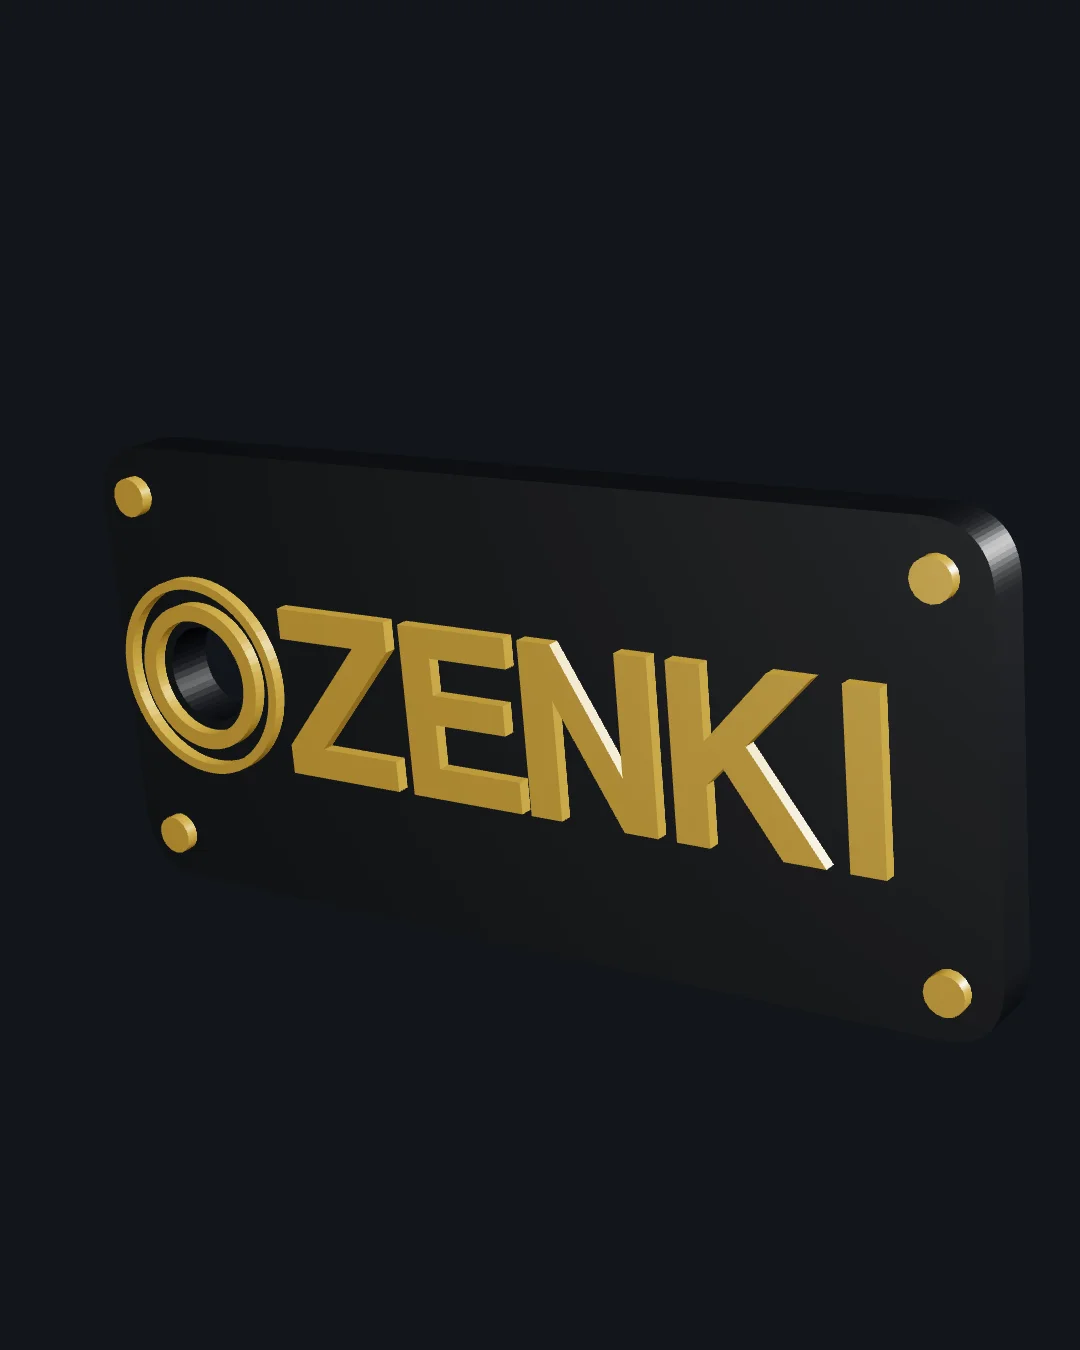
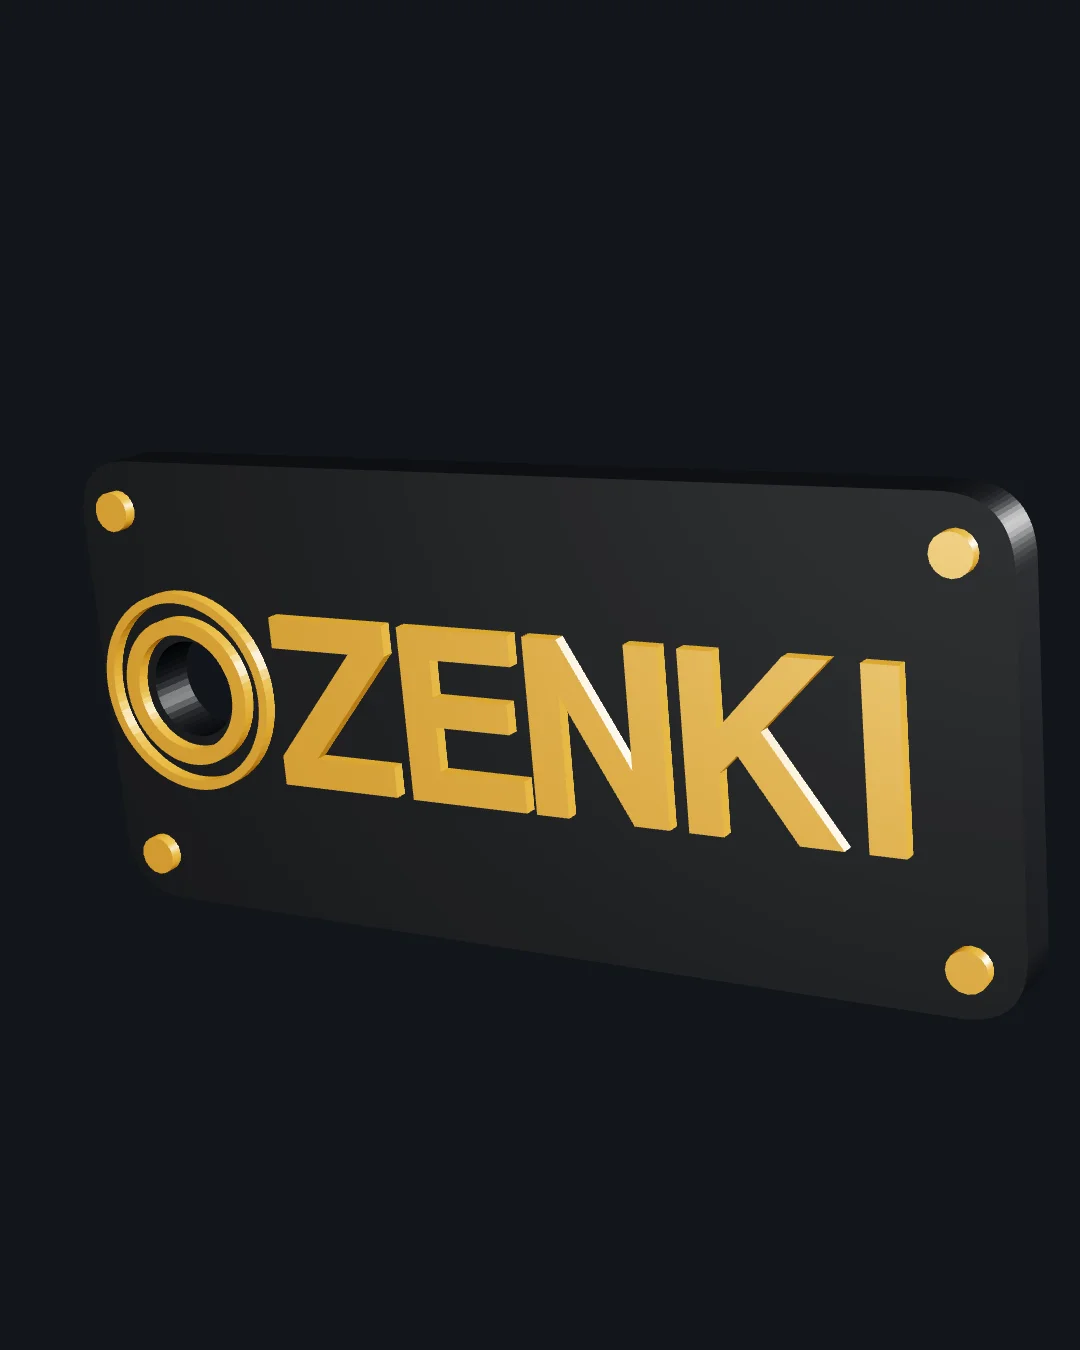
feat: brighter amber and a matched sky-cyan
Amber base F5A623, light FFC35C. Cyan moves to 38C8F5 to sit on the blue-lit photography. Applied to tokens, 3D materials, favicon, key tag combos and the design doc. Red becomes a danger token for errors only.

Changed region(s): [[0.0917, 0.3422, 0.9778, 0.6533], [0.8556, 0.6844, 0.9167, 0.7778], [0.0917, 0.3422, 0.1528, 0.4044]]

diff --git a/src/app/globals.css b/src/app/globals.css
@@ -46,18 +46,20 @@
   --color-text-tertiary: #5F6A76;
 
   /* Accent: amber is primary. Gradients always run light to base, never base to dark. */
-  --color-accent-primary: #C49B3C;
-  --color-accent-primary-light: #D9AF52;
-  --color-accent-warm: #22D3EE; /* historical name: holds cyan, restrained secondary (icons, rim accents, hero hologram). Never nav or CTA. */
-  --color-accent-secondary: #D9AF52;
-  --color-accent-glow: rgba(196, 155, 60, 0.08);
-  --color-accent-border: rgba(196, 155, 60, 0.25);
-  --color-accent-hover: rgba(196, 155, 60, 0.12);
+  --color-accent-primary: #F5A623;
+  --color-accent-primary-light: #FFC35C;
+  --color-accent-warm: #38C8F5; /* historical name: holds cyan, restrained secondary (icons, rim accents, hero hologram). Never nav or CTA. */
+  --color-accent-secondary: #FFC35C;
+  --color-accent-glow: rgba(245, 166, 35, 0.08);
+  --color-accent-border: rgba(245, 166, 35, 0.25);
+  --color-accent-hover: rgba(245, 166, 35, 0.12);
 
   /* CTA (Call to Action) */
-  --color-cta: #EF4444;
-  --color-cta-hover: #F87171;
-  --color-cta-glow: rgba(239, 68, 68, 0.5);
+  /* Primary buttons use the amber accent. Red is reserved for errors. */
+  --color-cta: var(--color-accent-primary);
+  --color-cta-hover: var(--color-accent-primary-light);
+  --color-cta-glow: rgba(245, 166, 35, 0.35);
+  --color-danger: #EF4444;
 
   /* Borders & Surfaces */
   --color-border: #293038;
@@ -71,18 +73,18 @@
   --card-foreground: #F3F5F7;
   --popover: #12151A;
   --popover-foreground: #F3F5F7;
-  --primary: #C49B3C;
+  --primary: #F5A623;
   --primary-foreground: #0B0D10;
   --secondary: #181C22;
   --secondary-foreground: #F3F5F7;
   --muted: #181C22;
   --muted-foreground: #8A93A0;
-  --accent: #C49B3C;
+  --accent: #F5A623;
   --accent-foreground: #0B0D10;
   --destructive: #EF4444;
   --border: #293038;
   --input: #293038;
-  --ring: #C49B3C;
+  --ring: #F5A623;
 }
 
 .dark {
@@ -92,18 +94,18 @@
   --card-foreground: #F3F5F7;
   --popover: #12151A;
   --popover-foreground: #F3F5F7;
-  --primary: #C49B3C;
+  --primary: #F5A623;
   --primary-foreground: #0B0D10;
   --secondary: #181C22;
   --secondary-foreground: #F3F5F7;
   --muted: #181C22;
   --muted-foreground: #8A93A0;
-  --accent: #C49B3C;
+  --accent: #F5A623;
   --accent-foreground: #0B0D10;
   --destructive: #EF4444;
   --border: #293038;
   --input: #293038;
-  --ring: #C49B3C;
+  --ring: #F5A623;
 }
 
 * {
@@ -207,7 +209,7 @@ html {
 /* ── Selection ── */
 
 ::selection {
-  background: rgba(196, 155, 60, 0.25);
+  background: rgba(245, 166, 35, 0.25);
   color: #fff;
 }
 

diff --git a/src/components/hero3d/Phone.tsx b/src/components/hero3d/Phone.tsx
@@ -53,7 +53,7 @@ export function Phone({
     ctx.fillRect(0, 0, W, H);
 
     // Scanlines
-    ctx.strokeStyle = "rgba(34,211,238,0.04)";
+    ctx.strokeStyle = "rgba(56, 200, 245,0.04)";
     for (let y = 0; y < H; y += 3) {
       ctx.beginPath();
       ctx.moveTo(0, y);
@@ -70,15 +70,15 @@ export function Phone({
     const y3d = H * 0.36;
 
     ctx.font = `bold ${fontSize}px 'Inter','Segoe UI','Helvetica Neue',Arial,sans-serif`;
-    ctx.shadowColor = "#22d3ee";
+    ctx.shadowColor = "#38C8F5";
     ctx.shadowBlur = 80;
-    ctx.fillStyle = "rgba(34,211,238,0.18)";
+    ctx.fillStyle = "rgba(56, 200, 245,0.18)";
     ctx.fillText("3D", cx, y3d);
     ctx.shadowBlur = 40;
-    ctx.fillStyle = "#22d3ee";
+    ctx.fillStyle = "#38C8F5";
     ctx.fillText("3D", cx, y3d);
     ctx.shadowBlur = 12;
-    ctx.fillStyle = "#67e8f9";
+    ctx.fillStyle = "#8FDDFB";
     ctx.fillText("3D", cx, y3d);
     ctx.shadowBlur = 0;
     ctx.fillStyle = "#e0f7ff";
@@ -88,15 +88,15 @@ export function Phone({
     const yPrint = H * 0.68;
 
     ctx.font = `bold ${fontSize}px 'Inter','Segoe UI','Helvetica Neue',Arial,sans-serif`;
-    ctx.shadowColor = "#22d3ee";
+    ctx.shadowColor = "#38C8F5";
     ctx.shadowBlur = 80;
-    ctx.fillStyle = "rgba(34,211,238,0.18)";
+    ctx.fillStyle = "rgba(56, 200, 245,0.18)";
     ctx.fillText("PRINTING", cx, yPrint);
     ctx.shadowBlur = 40;
-    ctx.fillStyle = "#22d3ee";
+    ctx.fillStyle = "#38C8F5";
     ctx.fillText("PRINTING", cx, yPrint);
     ctx.shadowBlur = 12;
-    ctx.fillStyle = "#67e8f9";
+    ctx.fillStyle = "#8FDDFB";
     ctx.fillText("PRINTING", cx, yPrint);
     ctx.shadowBlur = 0;
     ctx.fillStyle = "#e0f7ff";
@@ -158,7 +158,7 @@ export function Phone({
       >
         <planeGeometry args={[pw - bezel * 2, ph - bezel * 2]} />
         <meshBasicMaterial
-          color="#22d3ee"
+          color="#38C8F5"
           transparent
           opacity={0.08}
           blending={THREE.AdditiveBlending}
@@ -170,7 +170,7 @@ export function Phone({
       <mesh position={[0, 0, -ph / 2]}>
         <boxGeometry args={[pw * 0.85, pt * 0.3, 0.012]} />
         <meshBasicMaterial
-          color="#22d3ee"
+          color="#38C8F5"
           transparent
           opacity={0.5}
           blending={THREE.AdditiveBlending}

diff --git a/src/lib/constants.ts b/src/lib/constants.ts
@@ -33,7 +33,7 @@ export const projectJourneys: ProjectJourney[] = [
       "Upload your 3D model. We'll review it for printability, recommend a material, and send you a quote within 24 hours.",
     icon: FileText,
     href: "#quote",
-    color: "#22D3EE",
+    color: "#38C8F5",
   },
   {
     title: "I need a custom part printed",
@@ -41,7 +41,7 @@ export const projectJourneys: ProjectJourney[] = [
       "If you have a 3D model, we can manufacture it. Upload your file and tell us about your project.",
     icon: Sparkles,
     href: "#quote",
-    color: "#22D3EE",
+    color: "#38C8F5",
   },
   {
     title: "I have a broken or missing part",
@@ -49,7 +49,7 @@ export const projectJourneys: ProjectJourney[] = [
       "If you already have an STL file for the replacement, upload it and we'll print it. If not, contact us. CAD and reverse-engineering may be available in the future.",
     icon: Camera,
     href: "#contact",
-    color: "#22D3EE",
+    color: "#38C8F5",
   },
   {
     title: "I'm not sure where to start",
@@ -57,7 +57,7 @@ export const projectJourneys: ProjectJourney[] = [
       "No problem. Get in touch and describe what you're trying to do. We'll give you honest advice on whether 3D printing is the right solution.",
     icon: Lightbulb,
     href: "#contact",
-    color: "#22D3EE",
+    color: "#38C8F5",
   },
 ];
 
@@ -156,7 +156,7 @@ export const materials: Material[] = [
       { label: "Outdoor Use", value: "Not recommended", icon: Sun },
       { label: "Best For", value: "Prototypes, décor, gifts", icon: Zap },
     ],
-    color: "#22D3EE",
+    color: "#38C8F5",
     textColor: "text-cyan-400",
     borderColor: "border-cyan-500/20",
     shrinkage: "~0.2–0.5%",

diff --git a/src/components/hero3d/Printer.tsx b/src/components/hero3d/Printer.tsx
@@ -112,19 +112,19 @@ export function Printer({ mouse, position = [2.8, -0.72, -0.08] }: PrinterProps)
     [],
   );
   const matGear = useMemo(
-    () => new THREE.MeshStandardMaterial({ color: "#C49B3C", metalness: 0.35, roughness: 0.7 }),
+    () => new THREE.MeshStandardMaterial({ color: "#F5A623", metalness: 0.35, roughness: 0.7 }),
     [],
   );
   const matBrass = useMemo(
-    () => new THREE.MeshStandardMaterial({ color: "#C49B3C", metalness: 0.92, roughness: 0.18 }),
+    () => new THREE.MeshStandardMaterial({ color: "#F5A623", metalness: 0.92, roughness: 0.18 }),
     [],
   );
   const matAmber = useMemo(
-    () => new THREE.MeshStandardMaterial({ color: "#C49B3C", metalness: 0.15, roughness: 0.5 }),
+    () => new THREE.MeshStandardMaterial({ color: "#F5A623", metalness: 0.15, roughness: 0.5 }),
     [],
   );
   const matAmberAccent = useMemo(
-    () => new THREE.MeshStandardMaterial({ color: "#C49B3C", emissive: "#C49B3C", emissiveIntensity: 0.35, metalness: 0.2, roughness: 0.3 }),
+    () => new THREE.MeshStandardMaterial({ color: "#F5A623", emissive: "#F5A623", emissiveIntensity: 0.35, metalness: 0.2, roughness: 0.3 }),
     [],
   );
 
@@ -270,7 +270,7 @@ export function Printer({ mouse, position = [2.8, -0.72, -0.08] }: PrinterProps)
         {/* Bed grid lines — subtle premium detail */}
         <mesh position={[0, 0.105 * S, 0]} rotation={[-Math.PI / 2, 0, 0]}>
           <planeGeometry args={[2.2 * S, 2.2 * S]} />
-          <meshBasicMaterial color="#22D3EE" wireframe transparent opacity={0.06} />
+          <meshBasicMaterial color="#38C8F5" wireframe transparent opacity={0.06} />
         </mesh>
 
         {/* Levelling knobs */}

diff --git a/src/components/hero3d/Hologram.tsx b/src/components/hero3d/Hologram.tsx
@@ -75,7 +75,7 @@ export function Hologram({
   const wireframe = useMemo(
     () =>
       new THREE.MeshBasicMaterial({
-        color: "#67e8f9",
+        color: "#8FDDFB",
         wireframe: true,
         transparent: true,
         opacity: isMobile ? 0.12 : 0.72,
@@ -116,7 +116,7 @@ export function Hologram({
       <mesh position={[0, -0.1, 0]} rotation={[-Math.PI / 2, 0, 0]}>
         <circleGeometry args={[0.42, 40]} />
         <meshBasicMaterial
-          color="#22d3ee"
+          color="#38C8F5"
           transparent
           opacity={isMobile ? 0.017 : 0.08}
           blending={THREE.AdditiveBlending}
@@ -127,7 +127,7 @@ export function Hologram({
       <mesh position={[0, isMobile ? -0.1 : 0.18, 0]} rotation={isMobile ? [0, 0, 0] : [-Math.PI / 2, 0, 0]}>
         <cylinderGeometry args={isMobile ? [0.5, 0.15, 1.2, 32, 1, true] : [0.45, 0.24, 0.5, 32, 1, true]} />
         <meshBasicMaterial
-          color="#22d3ee"
+          color="#38C8F5"
           transparent
           opacity={isMobile ? 0.018 : 0.088}
           blending={THREE.AdditiveBlending}
@@ -164,7 +164,7 @@ export function Hologram({
       <mesh position={[0, 0.35, 0]} rotation={[Math.PI / 2.8, 0, 0]}>
         <torusGeometry args={[0.54, 0.006, 8, 48]} />
         <meshBasicMaterial
-          color="#22d3ee"
+          color="#38C8F5"
           transparent
           opacity={isMobile ? 0.12 : 0.6}
           blending={THREE.AdditiveBlending}

diff --git a/src/components/hero3d/Scene.tsx b/src/components/hero3d/Scene.tsx
@@ -141,9 +141,9 @@ export function Scene({
       {/* Key light — soft white for definition */}
       <directionalLight position={[3, 4, 3]} intensity={0.55} color="#EAEBEC" />
       {/* Amber accent point lights, matching the amber-primary materials. The hologram uses unlit MeshBasicMaterial, so it stays cyan on purpose. */}
-      <pointLight position={[-2, 1.5, 2]} intensity={1.0} color="#C49B3C" distance={7} />
-      <pointLight position={[2, -0.5, 1.8]} intensity={0.7} color="#C49B3C" distance={6} />
-      <pointLight position={[0, -1, 1]} intensity={0.6} color="#C49B3C" distance={5} />
+      <pointLight position={[-2, 1.5, 2]} intensity={1.0} color="#F5A623" distance={7} />
+      <pointLight position={[2, -0.5, 1.8]} intensity={0.7} color="#F5A623" distance={6} />
+      <pointLight position={[0, -1, 1]} intensity={0.6} color="#F5A623" distance={5} />
 
       {(!renderOnly || renderOnly === "printer") && (
         <>

diff --git a/functions/api/quote.ts b/functions/api/quote.ts
@@ -106,7 +106,7 @@ export const onRequestPost = async ({
 <body style="margin:0;padding:0;background:#0F1115;font-family:-apple-system,BlinkMacSystemFont,'Segoe UI',sans-serif">
 <table width="100%" style="max-width:600px;margin:0 auto;background:#0F1115">
 <tr><td style="padding:32px 24px 20px">
-<span style="font-size:18px;font-weight:700;color:#fafafa;letter-spacing:-0.02em">ZENKI<span style="color:#22D3EE">LAB</span></span>
+<span style="font-size:18px;font-weight:700;color:#fafafa;letter-spacing:-0.02em">ZENKI<span style="color:#38C8F5">LAB</span></span>
 </td></tr>
 <tr><td style="padding:0 24px 8px">
 <h1 style="font-size:20px;font-weight:700;color:#fafafa;margin:0 0 4px">New Quote Request</h1>

diff --git a/src/lib/keytag.ts b/src/lib/keytag.ts
@@ -29,8 +29,8 @@ export const STYLES: Record<
 };
 
 export const COMBOS: Record<ComboId, { label: string; body: string; accent: string; accentName: string }> = {
-  heritage: { label: "Heritage", body: "#15181D", accent: "#C49B3C", accentName: "amber" },
-  precision: { label: "Precision", body: "#15181D", accent: "#22D3EE", accentName: "cyan" },
+  heritage: { label: "Heritage", body: "#15181D", accent: "#F5A623", accentName: "amber" },
+  precision: { label: "Precision", body: "#15181D", accent: "#38C8F5", accentName: "cyan" },
 };
 
 export type KeyTagConfig = {

diff --git a/src/components/hero3d/Particles.tsx b/src/components/hero3d/Particles.tsx
@@ -99,7 +99,7 @@ function HologramEmission({ origin, isMobile }: { origin: [number, number, numbe
         <bufferAttribute attach="attributes-position" args={[positions, 3]} />
       </bufferGeometry>
       <pointsMaterial
-        color="#67E8F9"
+        color="#8FDDFB"
         size={isMobile ? 0.014 : 0.02}
         sizeAttenuation
         transparent

diff --git a/DESIGN_SYSTEM.md b/DESIGN_SYSTEM.md
@@ -14,14 +14,16 @@ Single source of truth for the website's design decisions. Update this file when
 | Panel / surface | `--color-bg-surface` | `#12151A` / `#181C22` |
 | Text primary | `--color-text-primary` | `#F3F5F7` |
 | Text muted | `--color-text-secondary` | `#8A93A0` |
-| **Amber — primary, dominant** | `--color-accent-primary` | `#C49B3C` base, `#D9AF52` light |
-| Cyan — restrained secondary | `--color-accent-warm` (legacy token name, holds cyan) | `#22D3EE` |
-| CTA (separate from brand accents) | `--color-cta` | `#EF4444` |
+| **Amber — primary, dominant** | `--color-accent-primary` | `#F5A623` base, `#FFC35C` light |
+| Cyan — restrained secondary | `--color-accent-warm` (legacy token name, holds cyan) | `#38C8F5` |
+| Buttons | `--color-cta` (alias of the amber accent) | `#F5A623`, hover `#FFC35C`, dark text |
+| Errors only | `--color-danger` | `#EF4444` |
 
 **Rules:**
-- Amber leads everywhere: nav, primary buttons, brand mark, primary UI.
+- Amber leads everywhere: nav, primary buttons, brand mark, primary UI. Primary buttons are amber-filled with dark text. Red is reserved for errors and never used on a button.
+- Button labels are Title Case and name the action: "Start a Project", "Go to Store". One label per intent across the page.
 - Cyan is scoped to small precision/tech details only — icons, minor rim accents, the hologram element in the hero. Never primary nav/CTA.
-- Gradients always go **light to base**, e.g. `#D9AF52 → #C49B3C`. Never base to dark (e.g. never `#C49B3C → #8a6f2a`) — that reads muddy, not premium.
+- Gradients always go **light to base**, e.g. `#FFC35C → #F5A623`. Never base to dark (e.g. never `#F5A623 → #A86F10`) — that reads muddy, not premium.
 - Token names in `globals.css` are historical (`--color-accent-warm` holds cyan, not a warm color) — documented with comments in the file, not renamed, to avoid touching ~70 references.
 
 ---
@@ -43,8 +45,8 @@ No em dash characters anywhere in site copy, reads as AI-generated. Use periods,
 ## 3. Logo
 
 **Logomark:** abstract "Z" precision mark — two rings rotating in opposite directions around a fixed white Z.
-- Outer ring: amber `#C49B3C`, opacity 0.45, dashed (`10 8`), rotates counter-clockwise, 10s
-- Inner ring: cyan `#22D3EE`, opacity 0.45, solid, rotates clockwise, 7s
+- Outer ring: amber `#F5A623`, opacity 0.45, dashed (`10 8`), rotates counter-clockwise, 10s
+- Inner ring: cyan `#38C8F5`, opacity 0.45, solid, rotates clockwise, 7s
 - Z: white `#FFFFFF`, stroke-width 3.4, rounded caps/joins, fixed (does not rotate)
 - ViewBox `0 0 40 40`
 
